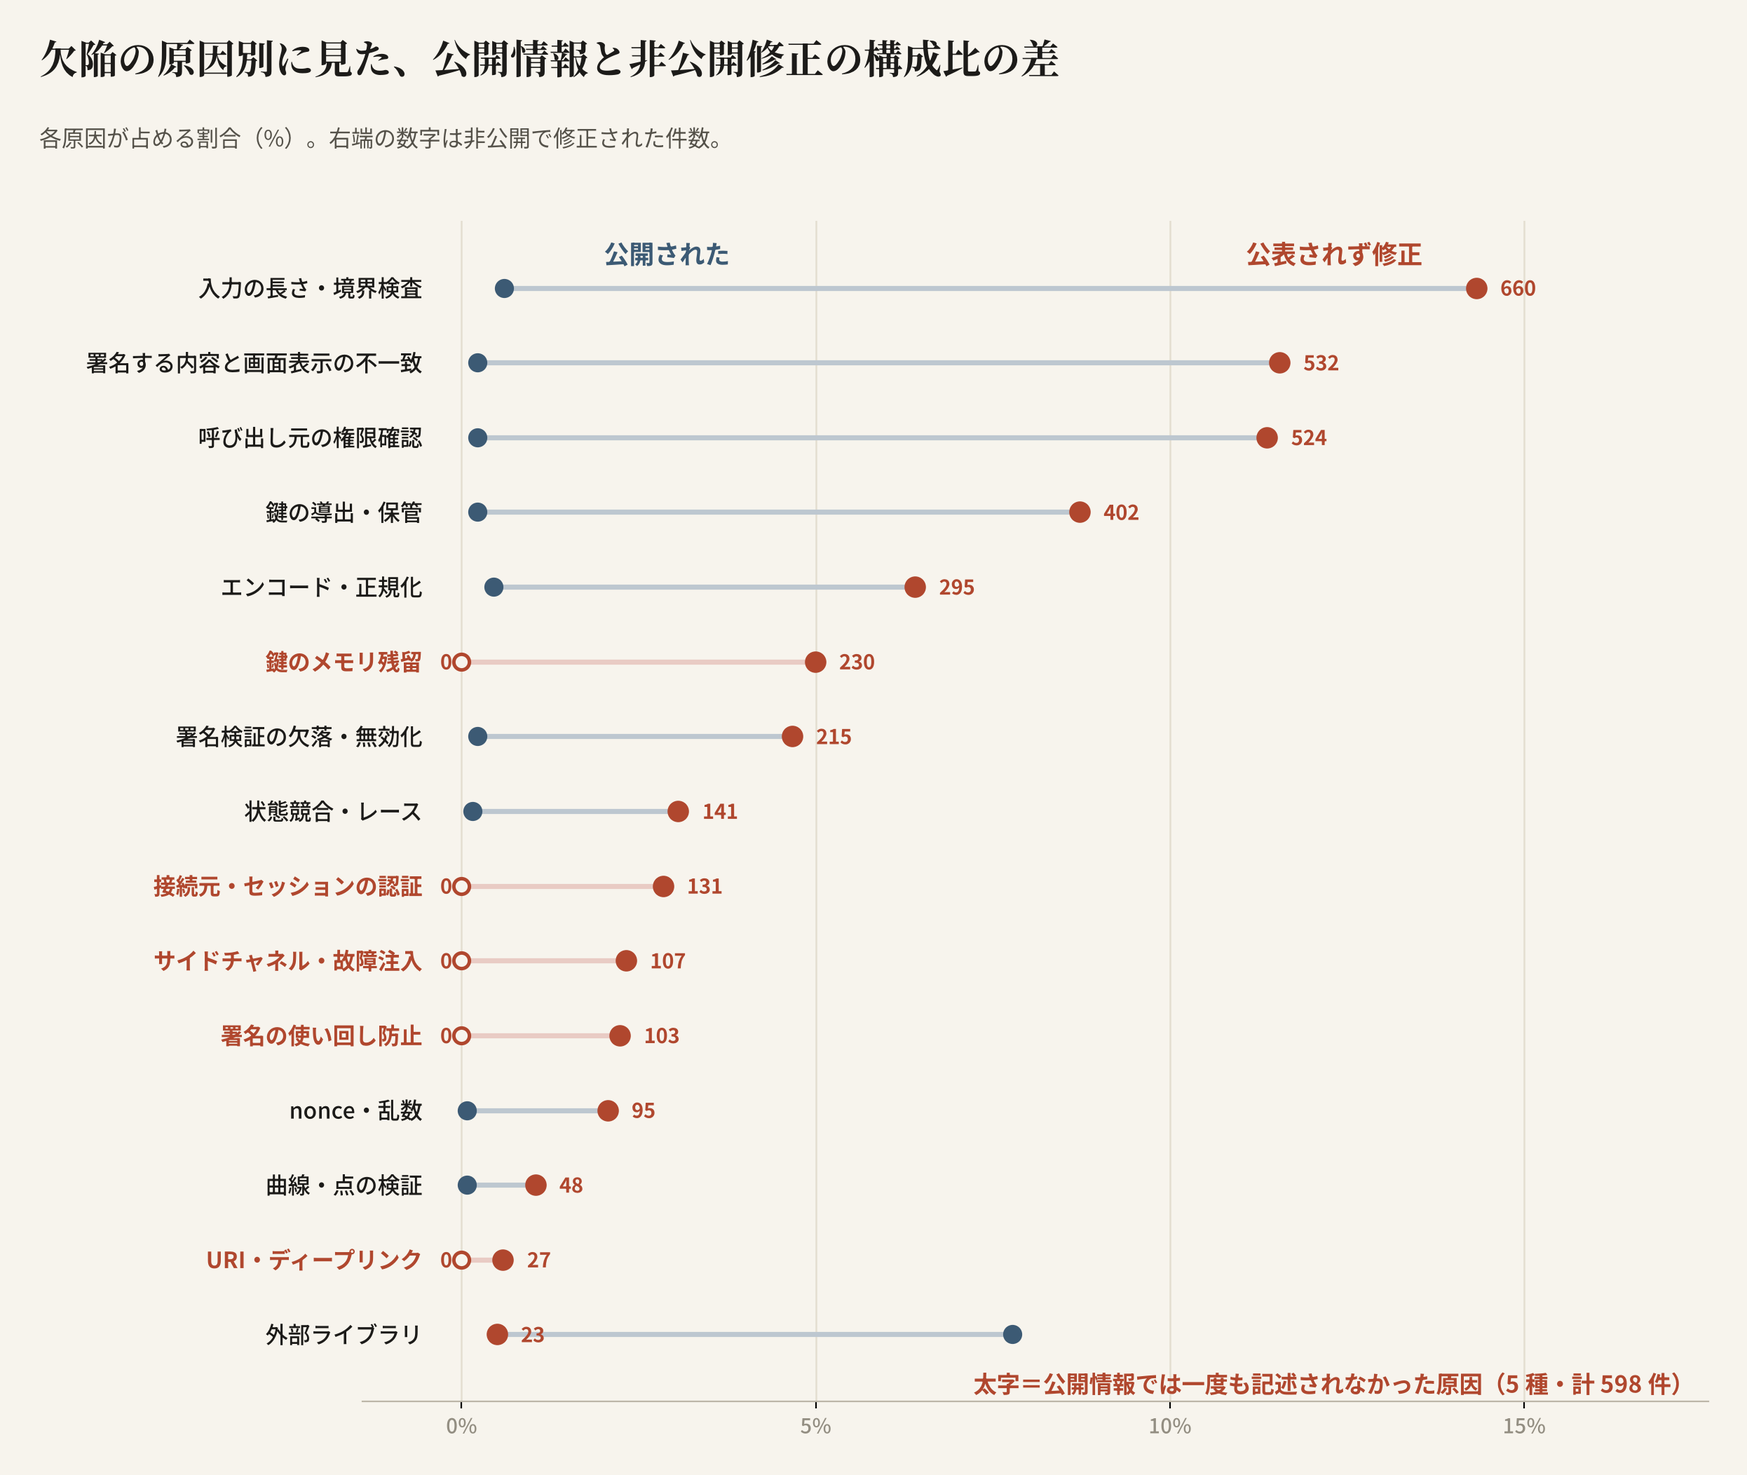
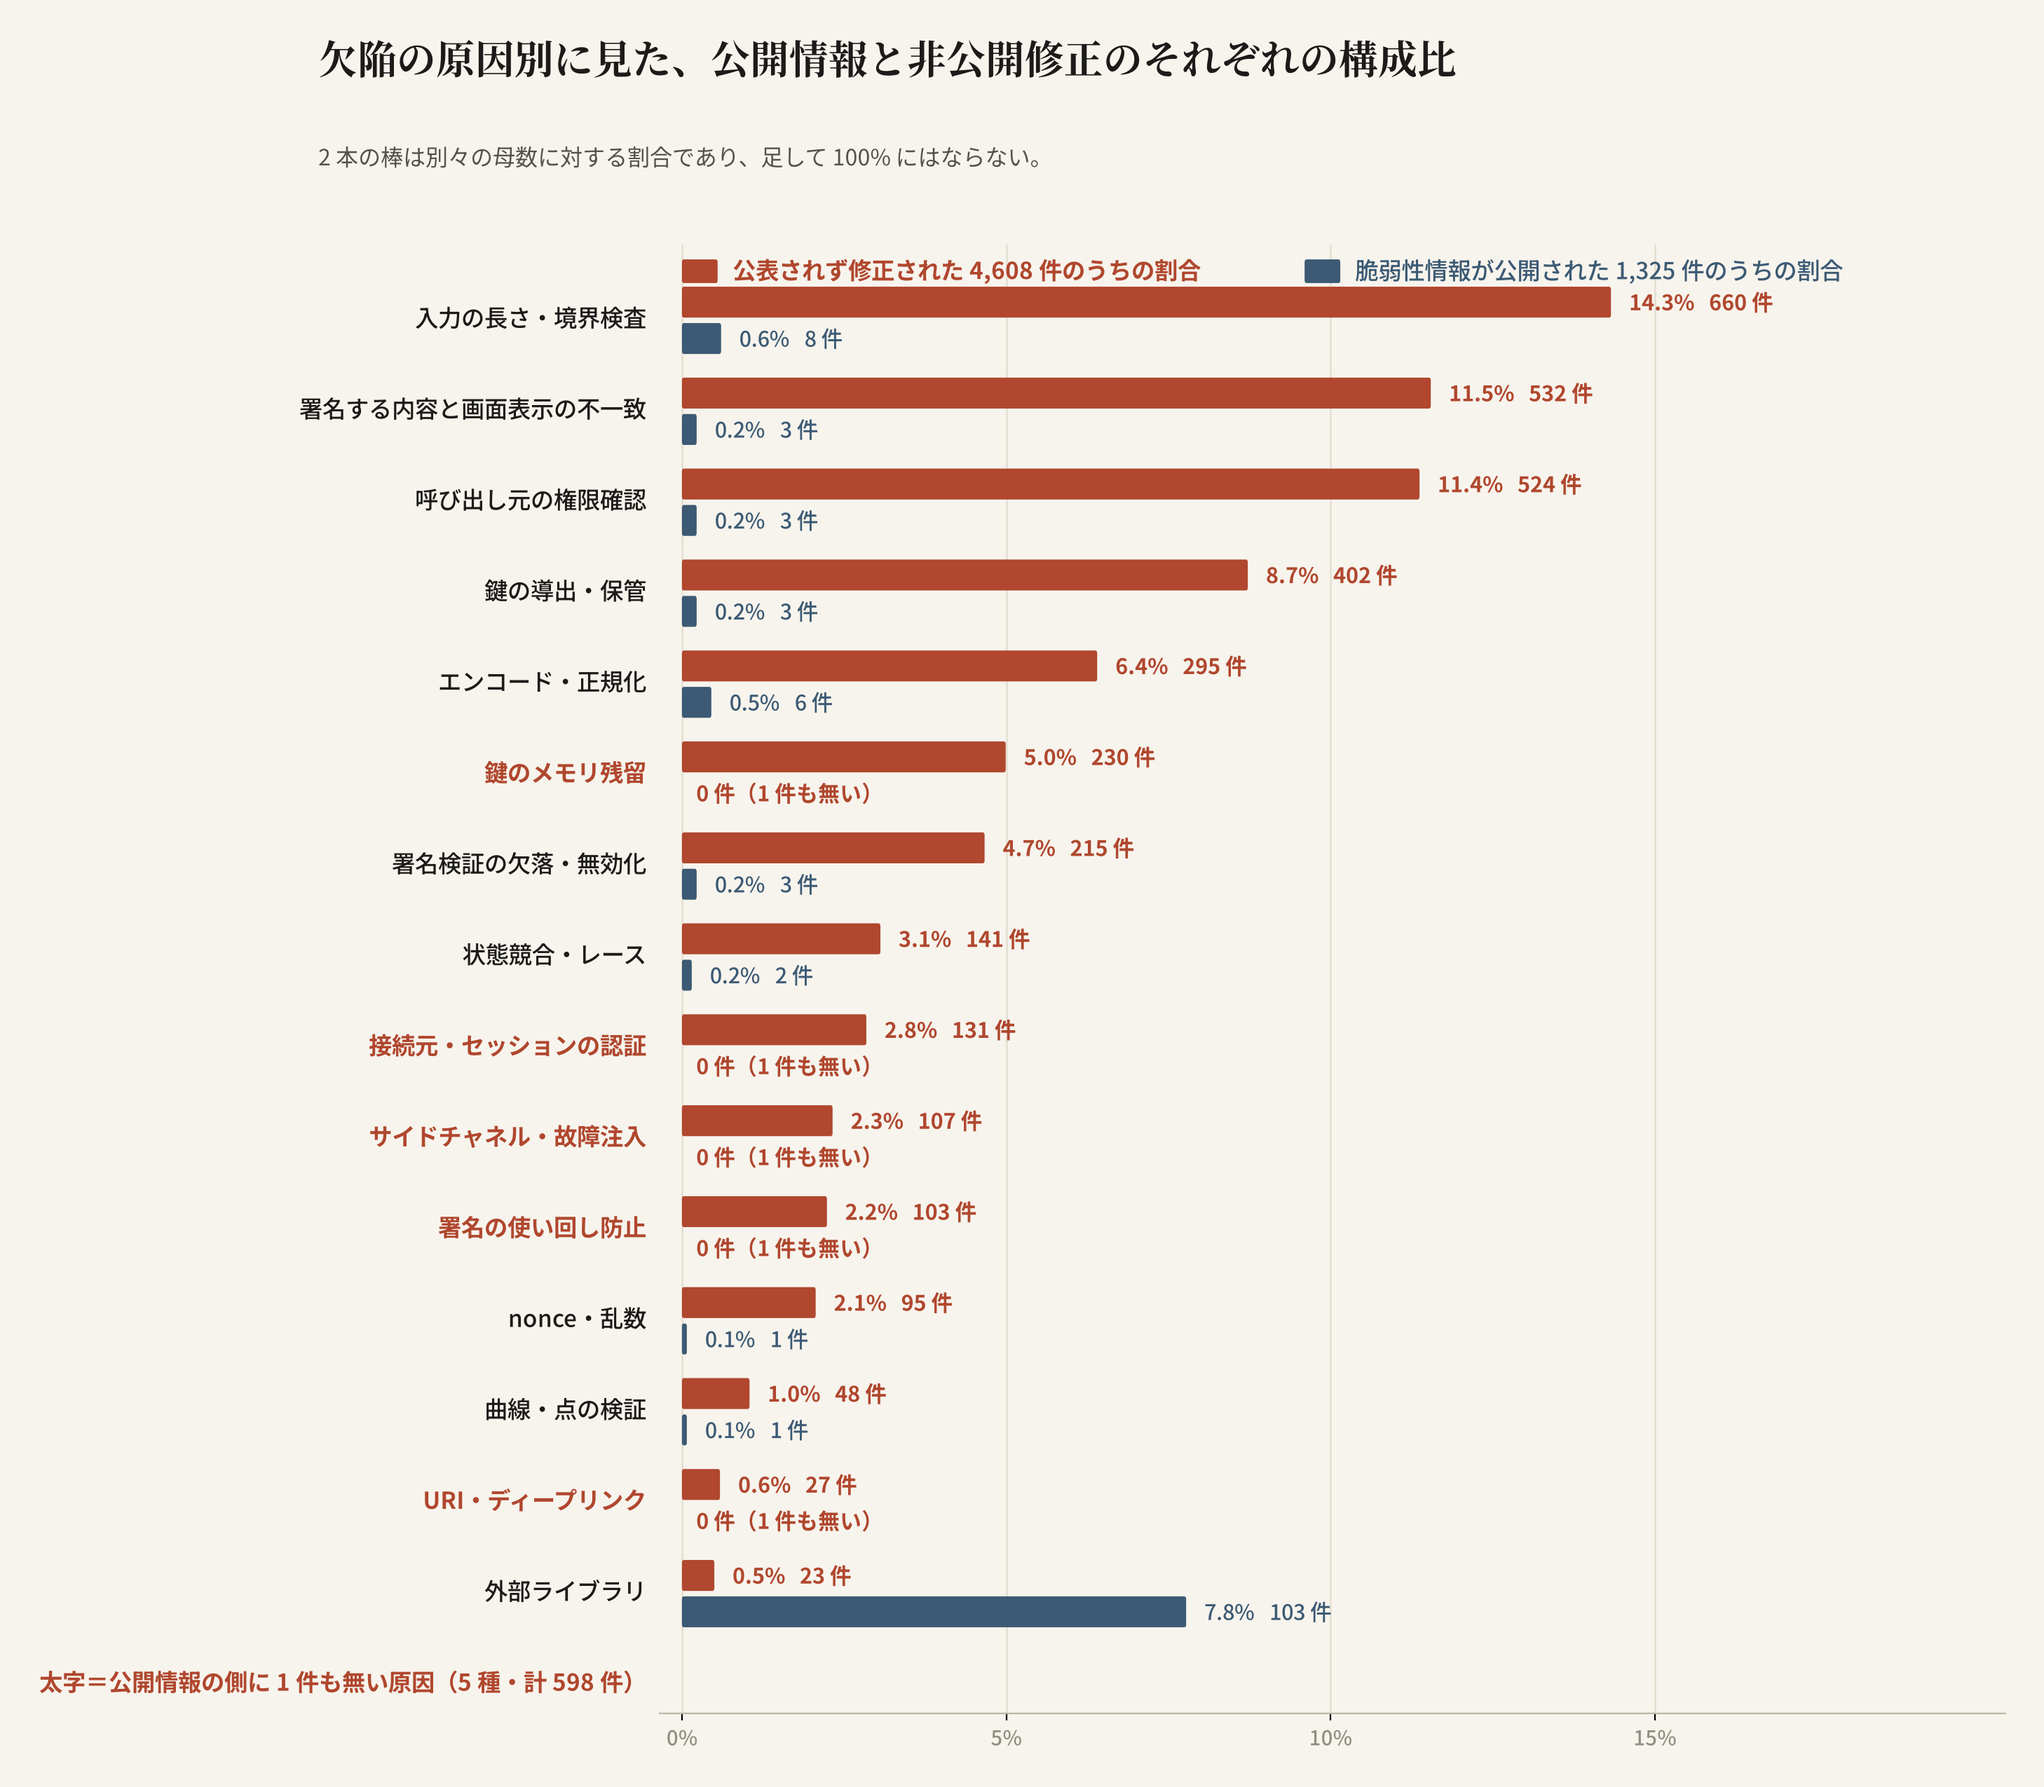
Stop drawing the disclosure gap as a dumbbell
A dumbbell means "moved from A to B" or "the two ends of one range". The two
numbers per cause are neither: each is a share of its own population, 4,608
silent fixes against 1,325 disclosed rows. Joined by a line on a single axis they
read as a split that ought to total 100%, so a cause with no advisory at all
looks like it belongs at 100% rather than at 0 — which is exactly how it was
read. The figure was wrong about its own quantity.

fig2 is now paired bars, one per series, with the zero rows written out as
"0 件（1 件も無い）" instead of a marker on the axis, and a subtitle that says the
two bars do not sum.

fig2b is the same comparison built to be read at a glance instead of by
comparing thirty numbers: two columns, each normalised to its own population.
The finding becomes a difference in shape — the disclosed column is 90% material
whose cause cannot be named plus 8% dependency work, while the silent column is
made of specific custody failures. Each column genuinely is 100%, so the
misreading that broke the dumbbell cannot occur here either.

That framing also surfaces a number the dumbbell hid: 23% of the silent fixes
also have no identifiable cause. The contrast is 90% against 23%, not 90%
against nothing, and it is now on the figure.

Both are committed; they are alternatives, not a sequence.

diff --git a/scripts/poster_figures.py b/scripts/poster_figures.py
@@ -119,7 +119,15 @@ def fig_ratio(out="fig1_ratio.png"):
 
 # --- 2. mechanism gap ------------------------------------------------------
 def fig_mechanisms(out="fig2_mechanisms.png"):
-    """Dumbbell. The four mechanisms an advisory has never once described."""
+    """Paired bars, NOT a dumbbell.
+
+    The first version drew each cause as two dots joined by a line. A dumbbell
+    means "moved from A to B" or "the ends of one range", and these two numbers
+    are neither: each is a share of its OWN population (4,608 silent fixes,
+    1,325 disclosed rows). Joined on one axis they read as a split that should
+    total 100%, which makes a cause with no advisory look like it should sit at
+    100% rather than at 0. Separate bars per series carry no such implication.
+    """
     sv = SIL.mechanism.value_counts(normalize=True) * 100
     av = ADV.mechanism.value_counts(normalize=True) * 100
     t = pd.DataFrame({"s": sv, "a": av}).fillna(0.0)
@@ -128,47 +136,158 @@ def fig_mechanisms(out="fig2_mechanisms.png"):
     t = t.drop(index=["other"], errors="ignore").sort_values("s")
 
     n = len(t)
-    fig, ax = S.new(12.8, 0.52 * n + 3.0, axis_off=False)
-    ax.set_xlim(-1.4, 17.6); ax.set_ylim(-0.9, n - 0.1)
-    for i, (m, r) in enumerate(t.iterrows()):
-        zero = r.n_a == 0
-        ax.plot([r.a, r.s], [i, i], color=S.lighten(S.RUST, 0.72) if zero
-                else S.lighten(S.SLATE, 0.66), lw=2.6, solid_capstyle="round", zorder=2)
-        ax.plot([r.a], [i], "o", ms=8, color=S.SLATE if not zero else S.PAPER,
-                mec=S.SLATE if not zero else S.RUST, mew=1.8, zorder=4)
-        ax.plot([r.s], [i], "o", ms=10, color=S.RUST, zorder=4)
-        S.t(ax, -0.55, i, MECH_JA.get(m, m), fp="med" if not zero else "bold",
-            size=11.5, color=S.INK if not zero else S.RUST, ha="right", va="center")
-        S.t(ax, r.s + 0.34, i, f"{int(r.n_s):,}", fp="bold", size=10.5,
-            color=S.RUST, va="center")
-        if zero:
-            S.t(ax, -0.30, i, "0", fp="bold", size=10.5, color=S.RUST,
-                ha="left", va="center")
+    ROW, BAR = 1.0, 0.34
+    fig, ax = S.new(12.8, 0.66 * n + 3.2, axis_off=False)
+    ax.set_xlim(-0.35, 20.4)
+    ax.set_ylim(-1.15, n * ROW)
 
-    S.t(ax, t.s.max() * 0.86, n - 0.55, "公表されず修正", fp="bold", size=13, color=S.RUST,
-        ha="center", va="center")
-    S.t(ax, 2.9, n - 0.55, "公開された", fp="bold", size=13, color=S.SLATE,
-        ha="center", va="center")
+    for i, (m, r) in enumerate(t.iterrows()):
+        y = i * ROW
+        zero = r.n_a == 0
+        S.t(ax, -0.55, y + 0.20, MECH_JA.get(m, m), fp="bold" if zero else "med",
+            size=12, color=S.RUST if zero else S.INK, ha="right", va="center")
+
+        # silent, on top
+        S.rrect(ax, 0, y + 0.20, max(r.s, 0.02), BAR, fc=S.RUST, ec="none", rs=0.03, z=2)
+        S.t(ax, r.s + 0.28, y + 0.37, f"{r.s:.1f}%   {int(r.n_s):,} 件", fp="bold",
+            size=11, color=S.RUST, va="center")
+
+        # disclosed, beneath
+        if zero:
+            S.t(ax, 0.22, y - 0.03, "0 件（1 件も無い）", fp="bold", size=11,
+                color=S.RUST, va="center")
+        else:
+            S.rrect(ax, 0, y - 0.20, max(r.a, 0.02), BAR, fc=S.SLATE, ec="none",
+                    rs=0.03, z=2)
+            S.t(ax, r.a + 0.28, y - 0.03, f"{r.a:.1f}%   {int(r.n_a):,} 件", fp="med",
+                size=11, color=S.SLATE, va="center")
+
+    # series key, drawn once at the top instead of a detached legend
+    ytop = n * ROW - 0.42
+    S.rrect(ax, 0, ytop, 0.55, 0.26, fc=S.RUST, ec="none", rs=0.03, z=3)
+    S.t(ax, 0.78, ytop + 0.13, "公表されず修正された 4,608 件のうちの割合", fp="bold",
+        size=12, color=S.RUST, va="center")
+    S.rrect(ax, 9.6, ytop, 0.55, 0.26, fc=S.SLATE, ec="none", rs=0.03, z=3)
+    S.t(ax, 10.38, ytop + 0.13, "脆弱性情報が公開された 1,325 件のうちの割合",
+        fp="med", size=12, color=S.SLATE, va="center")
+
     nz = t[t.n_a == 0]
-    S.t(ax, 17.4, -0.66,
-        f"太字＝公開情報では一度も記述されなかった原因"
-        f"（{len(nz)} 種・計 {int(nz.n_s.sum()):,} 件）",
+    S.t(ax, -0.55, -0.80,
+        f"太字＝公開情報の側に 1 件も無い原因（{len(nz)} 種・計 {int(nz.n_s.sum()):,} 件）",
         fp="bold", size=12, color=S.RUST, ha="right", va="center")
 
     ax.set_yticks([])
     ax.set_xticks(range(0, 16, 5))
     ax.set_xticklabels([f"{v}%" for v in range(0, 16, 5)],
                        fontproperties=S.F["med"], fontsize=10.5, color=S.MUTED)
-    for s in ("top", "right", "left"):
-        ax.spines[s].set_visible(False)
+    for sp in ("top", "right", "left"):
+        ax.spines[sp].set_visible(False)
     ax.spines["bottom"].set_color(S.FAINT)
     ax.grid(axis="x", color=S.HAIR, lw=0.9)
     ax.set_axisbelow(True)
-    fig.subplots_adjust(top=0.855, bottom=0.075, left=0.225, right=0.975)
+    fig.subplots_adjust(top=0.865, bottom=0.065, left=0.235, right=0.985)
     S.title_block(fig,
-                  "欠陥の原因別に見た、公開情報と非公開修正の構成比の差",
-                  "各原因が占める割合（%）。右端の数字は非公開で修正された件数。",
-                  x=0.045, y=0.975)
+                  "欠陥の原因別に見た、公開情報と非公開修正のそれぞれの構成比",
+                  "2 本の棒は別々の母数に対する割合であり、足して 100% にはならない。",
+                  x=0.045, y=0.977)
+    return S.save(fig, out)
+
+
+# --- 2b. the same gap, as two objects side by side -------------------------
+def fig_composition(out="fig2b_composition.png"):
+    """Two 100% columns. Read in one glance instead of fifteen rows.
+
+    The paired-bar version is accurate but asks the reader to compare thirty
+    numbers. Normalising each population to its own column instead makes the
+    finding a difference in SHAPE: the disclosed column is nine-tenths material
+    whose cause cannot be named, plus dependency work; the silent column is
+    made of specific custody failures. Each column really is 100%, so nothing
+    here invites the "these should add up" misreading either.
+    """
+    GROUPS = [
+        ("signed-differs-from-shown", "署名内容と画面表示の不一致", S.RUST),
+        ("signature-verification-gap", "署名検証の欠落・無効化", S.lighten(S.RUST, 0.30)),
+        ("nonce-or-randomness", "nonce・乱数の生成", S.lighten(S.RUST, 0.52)),
+        ("key-lifetime-in-memory", "鍵のメモリ残留", S.GOLD),
+        ("key-derivation-storage", "鍵の導出・保管", S.lighten(S.GOLD, 0.42)),
+        ("origin-session-auth", "接続元・セッションの認証", S.TEAL),
+        ("authorization-check", "呼び出し元の権限確認", S.lighten(S.TEAL, 0.42)),
+        ("input-bounds-parsing", "入力の長さ・境界検査", S.PLUM),
+        ("encoding-canonicalization", "エンコード・正規化", S.lighten(S.PLUM, 0.42)),
+        ("__rest__", "その他の技術的原因", S.OLIVE),
+        ("dependency-supply-chain", "外部ライブラリの脆弱性", S.SLATE),
+        ("other", "原因を特定できる記述が無い", S.lighten(S.SLATE, 0.66)),
+    ]
+    named = {g[0] for g in GROUPS} - {"__rest__"}
+
+    def compose(df):
+        vc = df.mechanism.value_counts()
+        out = {}
+        for key, _, _ in GROUPS:
+            out[key] = int(vc[[k for k in vc.index if k not in named]].sum()) \
+                if key == "__rest__" else int(vc.get(key, 0))
+        return out, len(df)
+
+    cs, ns = compose(SIL)
+    ca, na = compose(ADV)
+
+    fig, ax = S.new(12.8, 7.8, xlim=(0, 12.8), ylim=(-0.80, 7.10))
+    CW, TOP, BOT = 1.72, 5.95, 0.35
+    H = TOP - BOT
+
+    def column(x, comp, total, head, sub, col):
+        S.t(ax, x + CW / 2, TOP + 0.72, head, fp="bold", size=14, color=col,
+            ha="center", va="center", linespacing=1.35)
+        S.t(ax, x + CW / 2, TOP + 0.22, sub, fp="med", size=12, color=S.MUTED,
+            ha="center", va="center")
+        y = TOP
+        for key, _, c in GROUPS:
+            v = comp[key]
+            if not v:
+                continue
+            h = H * v / total
+            ax.add_patch(S.plt.Rectangle((x, y - h), CW, h, fc=c, ec=S.PAPER,
+                                         lw=1.4, zorder=2))
+            if h > 0.30:
+                pct = v / total * 100
+                S.t(ax, x + CW / 2, y - h / 2, f"{pct:.0f}%", fp="bold",
+                    size=12 if h > 0.55 else 10.5,
+                    color=S.PAPER if c in (S.RUST, S.SLATE, S.TEAL, S.PLUM, S.OLIVE,
+                                           S.GOLD) else S.INK,
+                    ha="center", va="center", zorder=5)
+            y -= h
+
+    column(0.55, cs, ns, "公表されず\n修正された欠陥", f"{ns:,} 件", S.RUST)
+    column(3.35, ca, na, "脆弱性情報が\n公開された修正", f"{na:,} 件", S.SLATE)
+
+    # legend, ordered as the stack is
+    lx, ly = 6.05, TOP + 0.10
+    for key, lab, c in GROUPS:
+        if not (cs[key] or ca[key]):
+            continue
+        ax.add_patch(S.plt.Rectangle((lx, ly - 0.11), 0.30, 0.24, fc=c, ec="none",
+                                     zorder=3))
+        weight = "bold" if ca[key] == 0 and cs[key] else "med"
+        S.t(ax, lx + 0.46, ly, lab, fp=weight, size=11.8,
+            color=S.RUST if weight == "bold" else S.INK, va="center")
+        S.t(ax, 12.55, ly, f"{cs[key]:,} / {ca[key]:,}", fp="med", size=11,
+            color=S.MUTED, ha="right", va="center")
+        ly -= 0.455
+
+    S.t(ax, 6.05, ly - 0.10, "各行の数字＝公表されず修正 / 公開情報あり（件）",
+        fp="reg", size=10.5, color=S.MUTED, va="center")
+    S.t(ax, 6.05, ly - 0.48, "太字＝公開情報の側に 1 件も存在しない原因",
+        fp="bold", size=11.5, color=S.RUST, va="center")
+
+    S.t(ax, 3.35 + CW / 2, BOT - 0.42,
+        "公開情報の 9 割は、原因を特定できる\n技術的記述を含んでいない",
+        fp="bold", size=12.5, color=S.SLATE, ha="center", va="top", linespacing=1.45)
+
+    fig.subplots_adjust(top=0.815, bottom=0.02, left=0.03, right=0.985)
+    S.title_block(fig,
+                  "公開情報と非公開修正は、原因の構成そのものが異なる",
+                  "各列はそれぞれの母集団を 100% とした構成比。",
+                  x=0.045, y=0.965)
     return S.save(fig, out)
 
 
@@ -249,5 +368,5 @@ def fig_folk(out="fig4_folk.png"):
 
 # --- 5. why yield is the wrong sort key ------------------------------------
 if __name__ == "__main__":
-    for f in (fig_ratio, fig_mechanisms, fig_heatmap, fig_folk):
+    for f in (fig_ratio, fig_mechanisms, fig_composition, fig_heatmap, fig_folk):
         print(f())

diff --git a/README.md b/README.md
@@ -350,13 +350,15 @@ such so they can be excluded.
 
 ## Figures
 
-`docs/figures/` holds the four figures behind the findings above, regenerated
-from the committed tables so they cannot drift from the data:
+`docs/figures/` holds the figures behind the findings above, regenerated from the
+committed tables so they cannot drift from the data. `fig2` and `fig2b` are two
+readings of the same comparison — pick one:
 
 | Figure | Shows |
 |---|---|
 | `fig1_ratio.png` | disclosed advisories against fixes shipped without one |
 | `fig2_mechanisms.png` | the two populations by defect cause, and the five causes never disclosed |
+| `fig2b_composition.png` | the same finding as two 100% columns — a difference in shape, readable at a glance |
 | `fig3_stack.png` | software type against the kind of defect that occurs in it |
 | `fig4_folk.png` | signing and display failures against leakage of the key itself |
 
